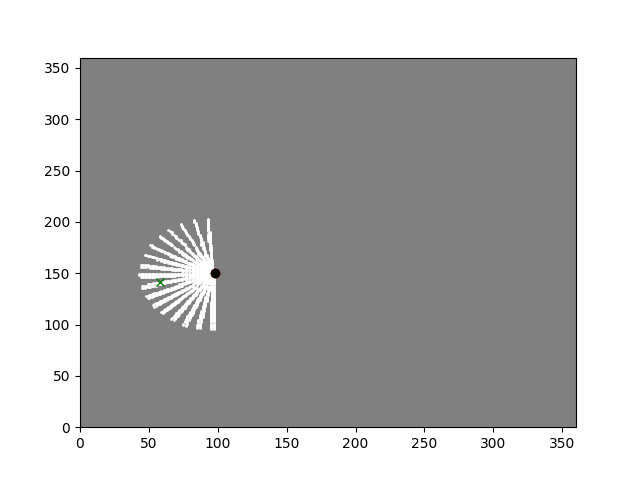
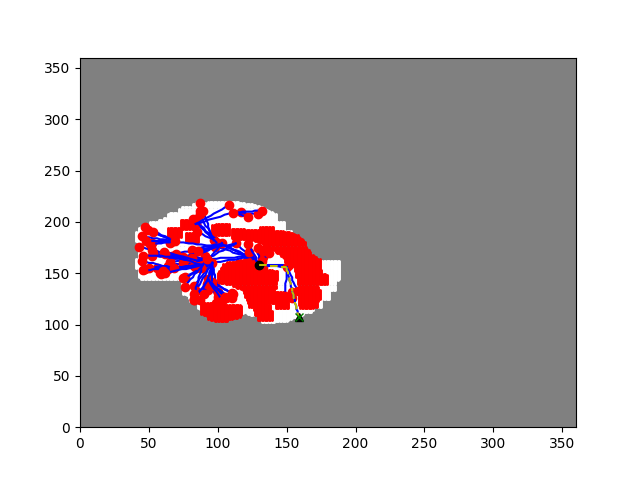
rrt more optimized

Changed region(s): [[0.1875, 0.4062, 0.5312, 0.6875]]

diff --git a/final_project-2/controllers/grocery_shopper/grocery_shopper.py b/final_project-2/controllers/grocery_shopper/grocery_shopper.py
@@ -86,14 +86,17 @@ display = robot.getDevice("display")
 keyboard = robot.getKeyboard()
 keyboard.enable(timestep)
 
+# RRT and Path Planning
 curr_waypoint = 0
 elapsed_time = 0
-prev_time = 0
 forward_state = 0
-rrt_state = 'goal'
 map_waypoints = []
 world_waypoints = []
 forward_state = 0
+node_list = []
+last_waypoints_angle = 0
+ahead_goal_attempts = 0
+valid_goal = True
 
 # Odometry
 pose_x     = 0
@@ -106,7 +109,10 @@ vR = 0
 lidar_sensor_readings = [] # List to hold sensor readings
 lidar_offsets = np.linspace(-LIDAR_ANGLE_RANGE/2., +LIDAR_ANGLE_RANGE/2., LIDAR_ANGLE_BINS)
 lidar_offsets = lidar_offsets[83:len(lidar_offsets)-83] # Only keep lidar readings not blocked by robot chassis
-
+lidar_threshold = 0.6 # if object in front of robot is within this meter threshold
+lidar_front_readings = []
+lidar_center = 250
+lidar_width = 75
 
 
 # ------------------------------------------------------------------
@@ -119,7 +125,16 @@ gripper_status="closed"
 # important variables
 lidar_map = np.zeros(shape=[360,360])
 filtered_lidar_map = np.zeros(shape=[360,360])
-current_map_location = ()
+lidar_map_generated = False
+
+def reset_variables():
+    global map_waypoints, world_waypoints, node_list, last_waypoints_angle, valid_goal, ahead_goal_attempts
+    map_waypoints = []
+    world_waypoints = []
+    node_list = []
+    last_waypoints_angle = pose_theta
+    valid_goal = True
+    ahead_goal_attempts = 0
 
 # Main Loop
 while robot.step(timestep) != -1:
@@ -137,9 +152,11 @@ while robot.step(timestep) != -1:
     n = compass.getValues()
     rad = -((math.atan2(n[0], n[2]))-1.5708)
     pose_theta = rad
+    world_theta = pose_theta + math.pi/2
 
     lidar_sensor_readings = lidar.getRangeImage()
     lidar_sensor_readings = lidar_sensor_readings[83:len(lidar_sensor_readings)-83]
+    lidar_front_readings = lidar_sensor_readings[lidar_center - lidar_width : lidar_center + lidar_width + 1]
     current_map_location = lid.globalcoords_to_map_coords(pose_x, pose_y)
     
     ##########################################################################################
@@ -147,70 +164,55 @@ while robot.step(timestep) != -1:
     ##########################################################################################
 
     # make/update the lidar map on every robot step
-    lid.make_lidar_map(pose_x, pose_y, pose_theta, lidar_map, lidar_sensor_readings, display)
+    lidar_map_generated = lid.make_lidar_map(pose_x, pose_y, pose_theta, lidar_map, lidar_sensor_readings, display)
     
     key = keyboard.getKey()
-    print(key)
-    if key == ord('S'):
+
+    if (curr_waypoint == len(world_waypoints)-1 or len(map_waypoints) == 0) and lidar_map_generated:
+        reset_variables()
         print("filtering...")
         filtered_lidar_map = lid.filter_lidar_map(lidar_map)
-        filtered_lidar_map = lid.expand_pixels(filtered_lidar_map, box_size=5)
+        filtered_lidar_map = lid.expand_pixels(filtered_lidar_map, box_size=10)
         lid.display_map(display, filtered_lidar_map)
 
         current_map_position = lid.globalcoords_to_map_coords(pose_x, pose_y)
-        # update based on new map
         frontiers, unknown, explored, obstacles = rrt.map_update(filtered_lidar_map)
-        # print(frontiers)
-        goal_point = rrt.get_random_frontier_vertex()
         bounds = np.array([[0,360],[0,360]])
-        node_list, map_waypoints = rrt.rrt_star(filtered_lidar_map, bounds, rrt.obstacles, rrt.point_is_valid, current_map_position, goal_point, 200, 30)
-        print(node_list)
-        print(map_waypoints)
-        rrt.visualize_2D_graph(bounds, rrt.obstacles, node_list, goal_point, 'robot_rrt_star_run.png')
 
-        if map_waypoints is not None:
+        while len(map_waypoints) == 0 and len(frontiers) != 0:
+            if valid_goal == True:
+                goal_point, valid_goal = rrt.get_random_frontier_vertex_ahead(current_map_position[0], current_map_position[1], last_waypoints_angle)
+            else:
+                goal_point = rrt.get_random_frontier_vertex()
+
+            node_list, map_waypoints = rrt.rrt_star(filtered_lidar_map, bounds, rrt.obstacles, rrt.point_is_valid, current_map_position, goal_point, 500, 30)
+            if len(node_list) > 0:
+                rrt.visualize_2D_graph(bounds, rrt.obstacles, node_list, goal_point, 'robot_rrt_star_run.png')
+
+        if map_waypoints is not None and len(map_waypoints) > 0:
             world_waypoints = [lid.map_coords_to_global_coords(pt[0], pt[1]) for pt in map_waypoints]
         else:
             print("map_waypoints is None!")
-            world_waypoints = []
 
-        # world_waypoints = [lid.map_coords_to_global_coords(pt[0], pt[1]) for pt in map_waypoints]
         curr_waypoint = 0
+        elapsed_time = 0
+    
+    print('pos: ', pose_x, pose_y, world_theta)
+    
+    valid_goal = True
 
-    vels = ik.nav_to_waypoint(world_waypoints, curr_waypoint, pose_x, pose_y, pose_theta)
+    if (len(lidar_front_readings) > 0):
+        print('lowest front lidar reading: ', np.min(np.array(lidar_front_readings)))
+    if np.any(np.array(lidar_front_readings) < lidar_threshold):
+        reset_variables()
+        print('AVOIDING OBJECT!')
+
+    if len(map_waypoints) > 1:
+        last_waypoints_angle = rrt.get_last_waypoint_direction(map_waypoints[-1], map_waypoints[-2])
+    vels, curr_waypoint = ik.nav_to_waypoint(world_waypoints, curr_waypoint, pose_x, pose_y, world_theta)
+
     vL = vels[0]
     vR = vels[1]
-
-    # if it's the beginning of program or if we've reached our frontier point, filter the lidar map
-    # if len(world_waypoints) == 0 or curr_waypoint == len(world_waypoints):
-    #     print("filtering...")
-    #     filtered_lidar_map = lid.filter_lidar_map(lidar_map)
-    #     lid.display_map(display, filtered_lidar_map)
-
-    #     current_map_position = lid.globalcoords_to_map_coords(pose_x, pose_y)
-    #     # update based on new map
-    #     rrt.map_update(filtered_lidar_map, current_map_position)
-    #     goal_point = rrt.get_random_frontier_vertex()
-    #     bounds = np.array([[0,360],[0,360]])
-    #     node_list, map_waypoints = rrt.rrt_star(filtered_lidar_map, bounds, rrt.obstacles, rrt.point_is_valid, current_map_position, goal_point, 200, 30)
-    #     rrt.visualize_2D_graph(bounds, rrt.obstacles, node_list, goal_point, 'robot_rrt_star_run.png')
-
-    #     if map_waypoints is not None:
-    #         world_waypoints = [lid.map_coords_to_global_coords(pt[0], pt[1]) for pt in map_waypoints]
-    #     else:
-    #         print("map_waypoints is None!")
-    #         world_waypoints = []
-
-    #     # world_waypoints = [lid.map_coords_to_global_coords(pt[0], pt[1]) for pt in map_waypoints]
-    #     curr_waypoint = 0
-    
-    # key = keyboard.getKey()
-    # print(key)
-    # if key == ord('S'):
-        # print("filtering...")
-        # filtered_lidar_map = lid.filter_lidar_map(lidar_map)
-        # lid.display_map(display, filtered_lidar_map)
-    
     
     ##########################################################################################
     # MOVING

diff --git a/final_project-2/controllers/grocery_shopper/rrt.py b/final_project-2/controllers/grocery_shopper/rrt.py
@@ -113,7 +113,30 @@ def map_update(map):
     return frontiers, unknown, explored, obstacles
     
 def get_random_frontier_vertex():
-    return frontiers[np.random.randint(0, len(frontiers)-2)]
+    if len(frontiers) > 0:
+        return frontiers[np.random.randint(0, len(frontiers)-2)]
+
+def get_random_frontier_vertex_ahead(robot_map_x, robot_map_y, robot_theta):
+    ang_cutoff_start = 45
+    ang_cutoff_end = 135
+
+    frontiers_ahead = []
+    
+    for pt in frontiers:
+        angle = math.atan2(pt[1] - robot_map_y, pt[0] - robot_map_x)
+        angle = (angle - robot_theta + math.pi) % (2 * math.pi) - math.pi
+        
+        if angle >= math.radians(ang_cutoff_start) and angle <= math.radians(ang_cutoff_end):
+            frontiers_ahead.append(pt)
+
+    if len(frontiers_ahead) == 0:
+        return (0,0), False
+    
+    return frontiers_ahead[np.random.randint(0, len(frontiers_ahead)-2)], True
+
+# returns the world angle theta that the vector between the two last waypoints create
+def get_last_waypoint_direction(p1, p2):
+    return  math.atan2(p2[1] - p1[1], p2[0] - p1[0])
 
 def get_random_valid_vertex():
     return explored[np.random.randint(0, len(explored)-2)]
@@ -183,6 +206,14 @@ def steer(from_point, to_point, delta_q):
 
     return path
 
+def get_nearby_nodes(node_list, q_point, radius):
+    q_point = np.array(q_point)
+    points = np.array([node.point for node in node_list])
+    dists = np.linalg.norm(points - q_point, axis=1)
+    
+    nearby_indices = np.where(dists <= radius)[0]
+    return [node_list[i] for i in nearby_indices]
+
 
 # use this method to retrieve waypoints for the robot to navigate to a frontier
 def rrt_star(map, state_bounds, obstacles, point_is_valid, starting_point, goal_point, k, delta_q):
@@ -199,16 +230,6 @@ def rrt_star(map, state_bounds, obstacles, point_is_valid, starting_point, goal_
     node_list.append(starting_node) # Add Node at starting point with no parent
     path_to_source = []
 
-    print(frontiers)
-
-    def get_nearby_nodes(center_point):
-        nearby = []
-        for node in node_list:
-            if math.dist(center_point, node.point) <= delta_q:
-                nearby.append(node)
-
-        return nearby
-
     for i in range(k):
         q_rand = []
         rand_num = random.random()
@@ -222,16 +243,17 @@ def rrt_star(map, state_bounds, obstacles, point_is_valid, starting_point, goal_
         path_to_new_node = steer(q_near.point, q_rand, delta_q)
         new_node_point = path_to_new_node[len(path_to_new_node)-1]
 
-        nearby_nodes = get_nearby_nodes(new_node_point)
+        nearby_nodes = get_nearby_nodes(node_list, new_node_point, delta_q)
 
         min_cost = math.inf
         min_cost_node = None
 
         # finding the nearby node that has the smallest cost
-        for curr in nearby_nodes:
-            if curr.cost < min_cost:
-                min_cost = curr.cost
-                min_cost_node = curr
+        costs = np.array([node.cost for node in nearby_nodes])
+        if len(costs) != 0:
+            min_cost_index = np.argmin(costs)
+            min_cost_node = nearby_nodes[min_cost_index]
+            min_cost = min_cost_node.cost
 
         # if the smallest cost in nearby nodes is smaller than the original q_near cost, then make this smallest cost node the new parent of q_new
         if min_cost < q_near.cost:
@@ -279,7 +301,9 @@ def rrt_star(map, state_bounds, obstacles, point_is_valid, starting_point, goal_
             path_to_source.reverse()
             return node_list, path_to_source
 
-    return node_list, path_to_source.reverse()
+    print('DID NOT FIND PATH TO THE GOAL')
+    path_to_source.reverse()
+    return node_list, path_to_source
 
 if __name__ == "__main__":
     testing_map = np.zeros(shape=[360,360])
@@ -298,4 +322,3 @@ if __name__ == "__main__":
     K = 200
     nodes_rrtstar, waypoints = rrt_star(testing_map, bounds, obstacles, point_is_valid, starting_point, goal_point, K, 30)
     visualize_2D_graph(bounds, obstacles, nodes_rrtstar, goal_point, 'rrt_star_run1.png')
-    # print(obstacles)

diff --git a/final_project-2/controllers/grocery_shopper/ik.py b/final_project-2/controllers/grocery_shopper/ik.py
@@ -26,11 +26,11 @@ def turn_to_goal(ang_to_goal: float, is_proportional=True) -> tuple:
     """ takes in the angle and turns if not facing -> returns true if it is facing the goal otherwise returns false"""
     
     # tuning variables r here
-    err_margin = .5
-    turn_speed = .07 # default value will change this
+    err_margin = .1
+    turn_speed = .04 # default value will change this
     min_turn_speed = .01
-    max_turn_speed = .25
-    portional_gain = .3
+    max_turn_speed = .15
+    portional_gain = .2
     
     # this part does makes it turn faster the further it is
     if is_proportional:
@@ -41,7 +41,6 @@ def turn_to_goal(ang_to_goal: float, is_proportional=True) -> tuple:
         
     if turn_speed < min_turn_speed:
         turn_speed = min_turn_speed
-
     
     if not (ang_to_goal < err_margin and ang_to_goal > -err_margin):
         if ang_to_goal > 0:
@@ -75,12 +74,25 @@ def reach_position(distance_to_goal, is_proportional=True) -> tuple:
 
     return None
 
+def spin_360():
+    return (MAX_SPEED*0.5, -MAX_SPEED*0.5)
 
+# returns wheel velocities to reach next waypoint
 def nav_to_waypoint(waypoints, curr_waypoint, pose_x, pose_y, pose_theta):
     if len(waypoints) == 0:
         print('waypoints is currently none')
-        return (0, 0)
+        return (0, 0), 0
     
+    if (curr_waypoint == len(waypoints)-1):
+        print('end of waypoints')
+        return (0, 0), len(waypoints)-1
+    
+    # skip the waypoint if it's within the robot's radius
+    if math.dist([pose_x, pose_y], waypoints[curr_waypoint]) <= AXLE_LENGTH/2:
+        curr_waypoint += 1
+        return (0, 0), curr_waypoint
+    
+    print('waypoint #:', curr_waypoint)
     print('curr waypoint:', waypoints[curr_waypoint])
 
     goal_pos = waypoints[curr_waypoint]
@@ -90,13 +102,15 @@ def nav_to_waypoint(waypoints, curr_waypoint, pose_x, pose_y, pose_theta):
 
     # calculate the angle to goal
     ang_to_goal = math.atan2(goal_pos[1] - pose_y, goal_pos[0] - pose_x)
-    print('ANGLE', ang_to_goal)
+    
     print('GOALS', goal_pos)
     print('WAYPOINTS LENGTH', len(waypoints))
     
     ang_to_goal = (ang_to_goal - pose_theta + math.pi) % (2 * math.pi) - math.pi
+    print('ANGLE TO GOAL', ang_to_goal)
 
     vels = turn_to_goal(ang_to_goal, True)
+    print('vels returned by turn_to_goal', vels)
     if vels is None:
         vels = reach_position(euc_dis, True)
         if vels is None:
@@ -104,4 +118,4 @@ def nav_to_waypoint(waypoints, curr_waypoint, pose_x, pose_y, pose_theta):
                 curr_waypoint += 1
             vels = (0, 0)
 
-    return vels
+    return vels, curr_waypoint

diff --git a/final_project-2/controllers/grocery_shopper/map_with_lidar.py b/final_project-2/controllers/grocery_shopper/map_with_lidar.py
@@ -125,6 +125,8 @@ def make_lidar_map(pose_x, pose_y, pose_theta, curr_map, lidar_sensor_readings, 
     # Draw the robot's current pose on the 360x360 display
     display.setColor(int(0xFF0000))
     display.drawPixel(360-abs(int(pose_x)), abs(int(pose_y)))
+
+    return True
     
     
     
